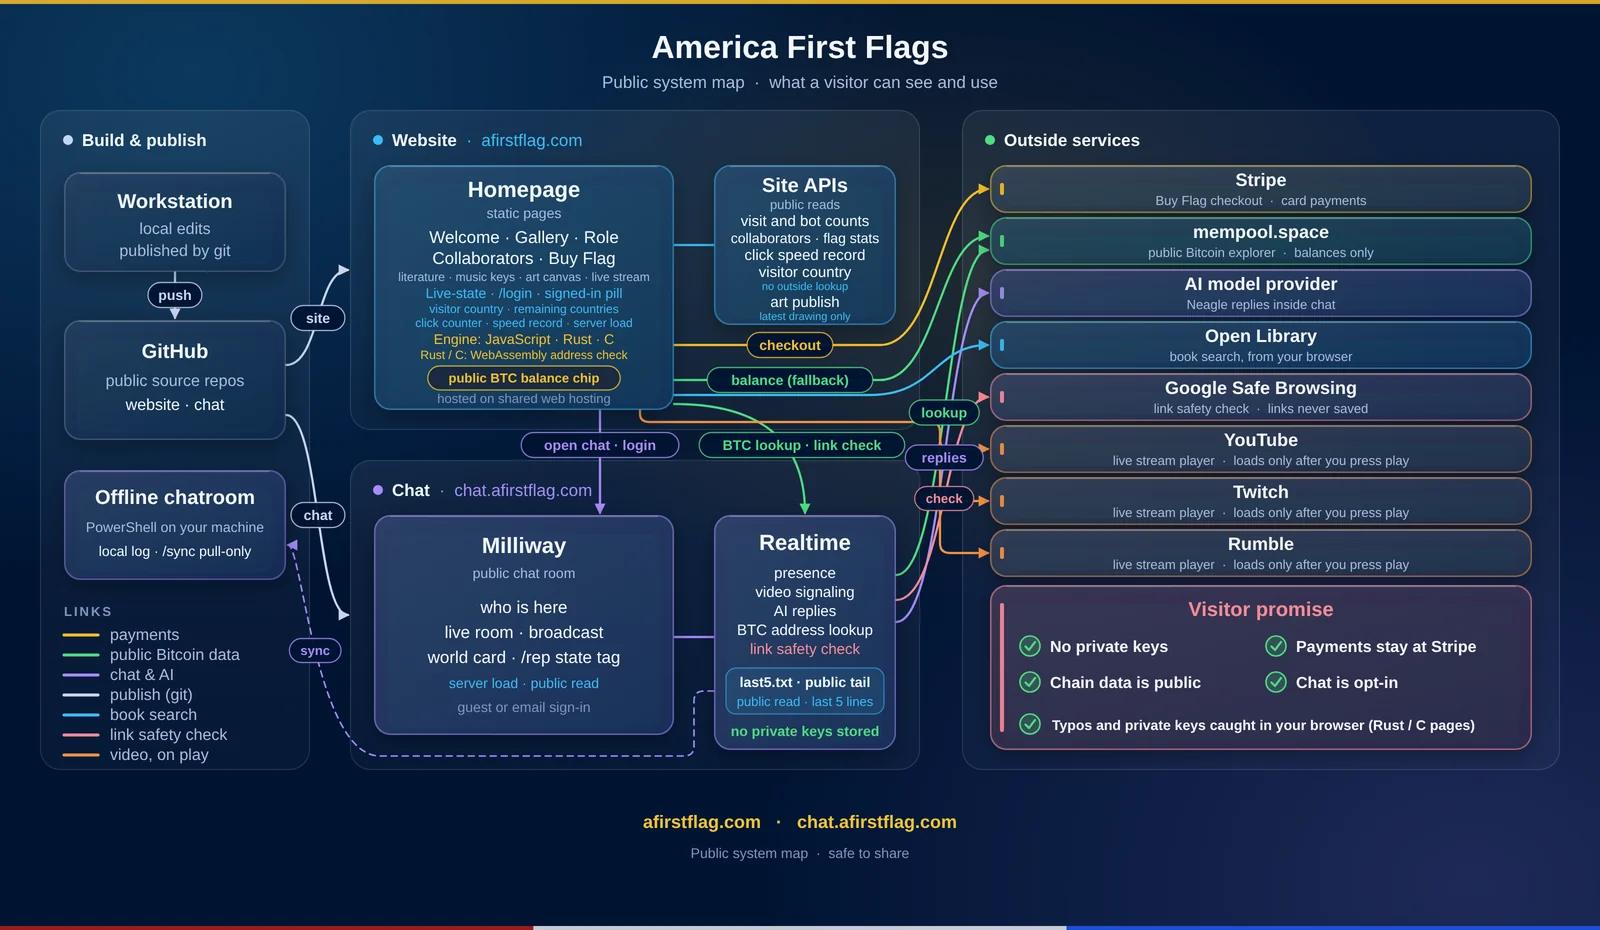
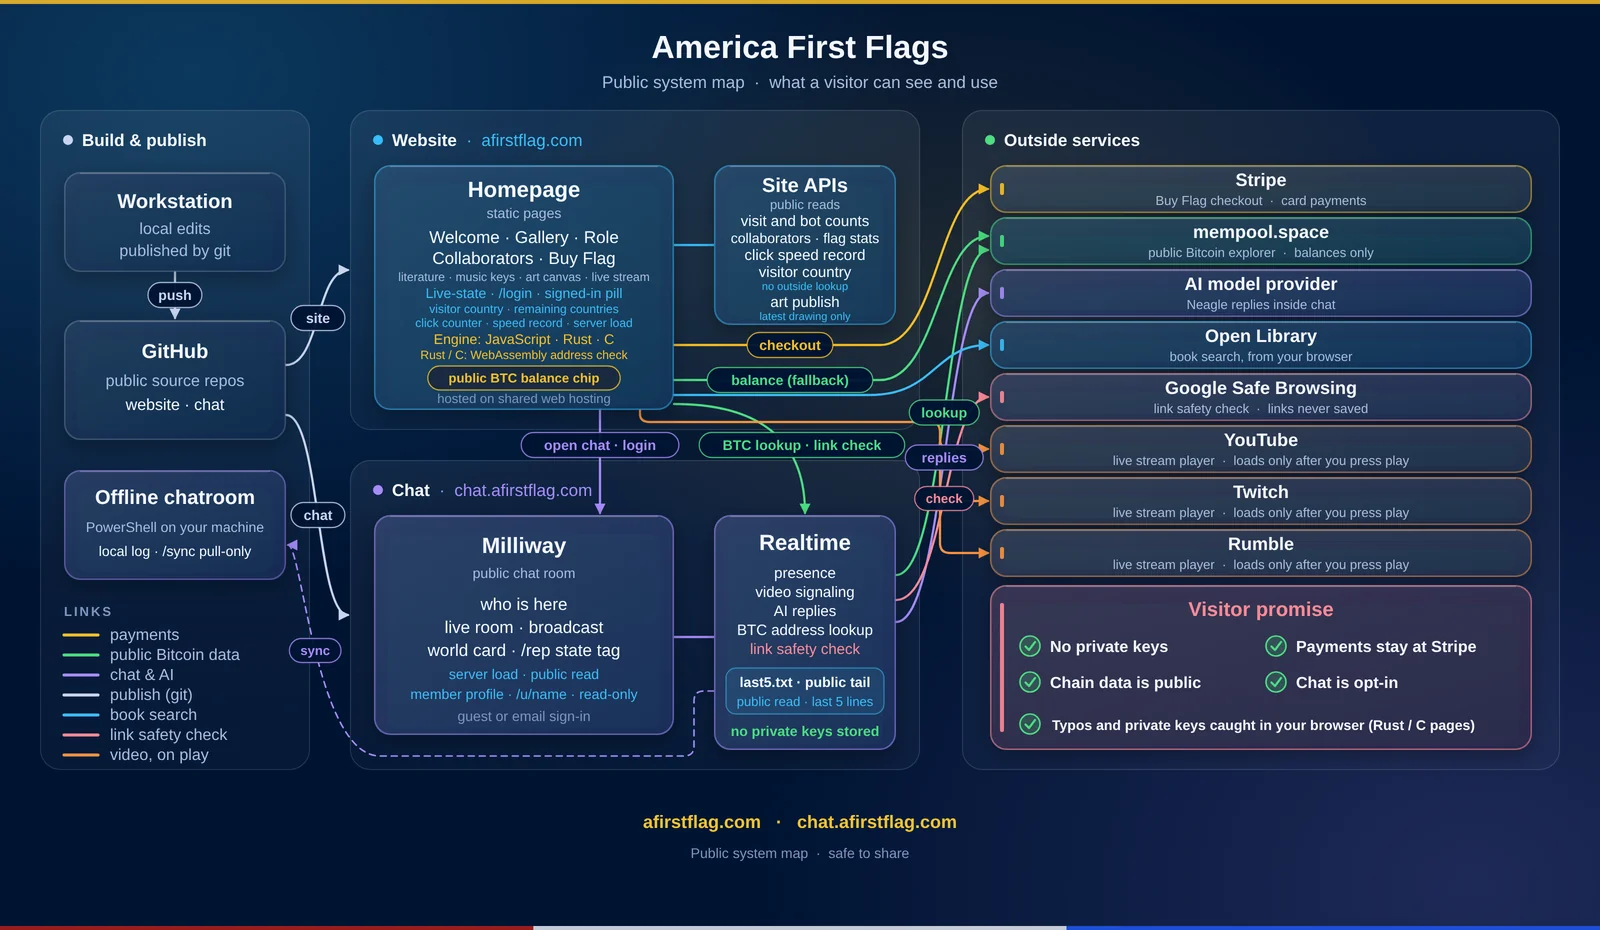
CHG-116: promote drawings to rev 17 (public map ?v=115)

Changed region(s): [[0.25, 0.6237, 0.4062, 0.7796]]

diff --git a/index.html b/index.html
@@ -1725,10 +1725,10 @@
       </button>
       <div class="drawer-body" id="how-panel">
         <p class="how-lede">Public system map: what a visitor can see and use. Tap the map to open it full size.</p>
-        <a class="how-map" href="/images/architecture-public.png?v=113" target="_blank" rel="noopener">
+        <a class="how-map" href="/images/architecture-public.png?v=115" target="_blank" rel="noopener">
           <picture>
-            <source srcset="/images/architecture-public.webp?v=113" type="image/webp">
-            <img src="/images/architecture-public.png?v=113" width="1600" height="930" loading="lazy" decoding="async" alt="Public system map of America First Flags (rev 16). The website, afirstflag.com, serves the homepage sections (welcome, gallery, role, collaborators, and Buy Flag, plus a public BTC balance chip) and site APIs for visit and bot counts, collaborators, flag stats, the click speed record, art publish, and the visitor country (looked up on the site, no outside lookup). The chat, chat.afirstflag.com, is the Milliway public chat room with realtime presence, video signaling, AI replies, BTC address lookup, and a link safety check, and stores no private keys. Outside services: Stripe for Buy Flag checkout and card payments, mempool.space as the public Bitcoin explorer for balances only, an AI model provider for Neagle replies inside chat, Google Safe Browsing for the link safety check, and YouTube, Twitch, and Rumble as live stream players (they load only after you press play). Both sites are published from a workstation through public GitHub repos. Visitor promise: no private keys, payments stay at Stripe, chain data is public, chat is opt-in. The homepage Live-state panel has a /login command that opens chat sign-in. The chat publishes a public tail of the last 5 public chat lines (last5.txt), and an offline chatroom on the owner's machine pulls that tail with /sync. The Live-state panel also shows a signed-in pill, and signed-in chat members can add a state tag with /rep. The Live-state panel also has an Engine row (Run page in JavaScript, Rust, or C); the Rust and C pages check Bitcoin addresses in the visitor's browser with WebAssembly before any lookup is sent, so typos and private keys are caught there on those pages. The Live-state panel also has a click counter that stays in the visitor's browser (browser-local storage); its best click speed runs can set a site-wide click speed record kept by the site APIs, and the Buy Flag window rotates its cards while open. The Live-state panel also shows a visitor country pill with a flag, found from the visitor's IP address in a database kept on the site, so the address is not sent to any outside service. A remaining countries pill shows how many countries no visitor has come from yet. The Live-state panel also shows the chat server load, read from a public read-only feed on the chat. The homepage also has a literature search: the visitor's browser asks Open Library, an outside book catalog, for books matching a title. The homepage also has a music keyboard that plays notes in the visitor's browser, with no outside requests. The homepage also has an art canvas: visitors draw in their browser, and can publish one drawing that replaces the previous one. The homepage also has a Live Stream drawer: visitors can play a YouTube, Twitch, or Rumble stream, each loading only after they press play.">
+            <source srcset="/images/architecture-public.webp?v=115" type="image/webp">
+            <img src="/images/architecture-public.png?v=115" width="1600" height="930" loading="lazy" decoding="async" alt="Public system map of America First Flags (rev 17). The website, afirstflag.com, serves the homepage sections (welcome, gallery, role, collaborators, and Buy Flag, plus a public BTC balance chip) and site APIs for visit and bot counts, collaborators, flag stats, the click speed record, art publish, and the visitor country (looked up on the site, no outside lookup). The chat, chat.afirstflag.com, is the Milliway public chat room with realtime presence, video signaling, AI replies, BTC address lookup, and a link safety check, and stores no private keys. Each registered chat member also has a read-only public profile page on the chat (chat.afirstflag.com/u/name) that shows only the username, the Member tier, and the join date. Outside services: Stripe for Buy Flag checkout and card payments, mempool.space as the public Bitcoin explorer for balances only, an AI model provider for Neagle replies inside chat, Google Safe Browsing for the link safety check, and YouTube, Twitch, and Rumble as live stream players (they load only after you press play). Both sites are published from a workstation through public GitHub repos. Visitor promise: no private keys, payments stay at Stripe, chain data is public, chat is opt-in. The homepage Live-state panel has a /login command that opens chat sign-in. The chat publishes a public tail of the last 5 public chat lines (last5.txt), and an offline chatroom on the owner's machine pulls that tail with /sync. The Live-state panel also shows a signed-in pill, and signed-in chat members can add a state tag with /rep. The Live-state panel also has an Engine row (Run page in JavaScript, Rust, or C); the Rust and C pages check Bitcoin addresses in the visitor's browser with WebAssembly before any lookup is sent, so typos and private keys are caught there on those pages. The Live-state panel also has a click counter that stays in the visitor's browser (browser-local storage); its best click speed runs can set a site-wide click speed record kept by the site APIs, and the Buy Flag window rotates its cards while open. The Live-state panel also shows a visitor country pill with a flag, found from the visitor's IP address in a database kept on the site, so the address is not sent to any outside service. A remaining countries pill shows how many countries no visitor has come from yet. The Live-state panel also shows the chat server load, read from a public read-only feed on the chat. The homepage also has a literature search: the visitor's browser asks Open Library, an outside book catalog, for books matching a title. The homepage also has a music keyboard that plays notes in the visitor's browser, with no outside requests. The homepage also has an art canvas: visitors draw in their browser, and can publish one drawing that replaces the previous one. The homepage also has a Live Stream drawer: visitors can play a YouTube, Twitch, or Rumble stream, each loading only after they press play.">
           </picture>
         </a>
       </div>
